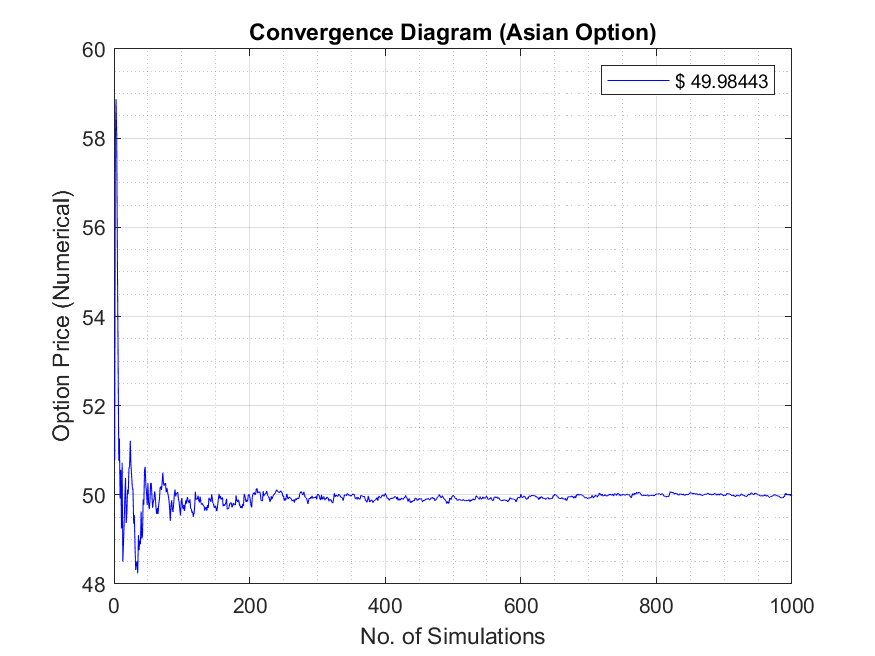
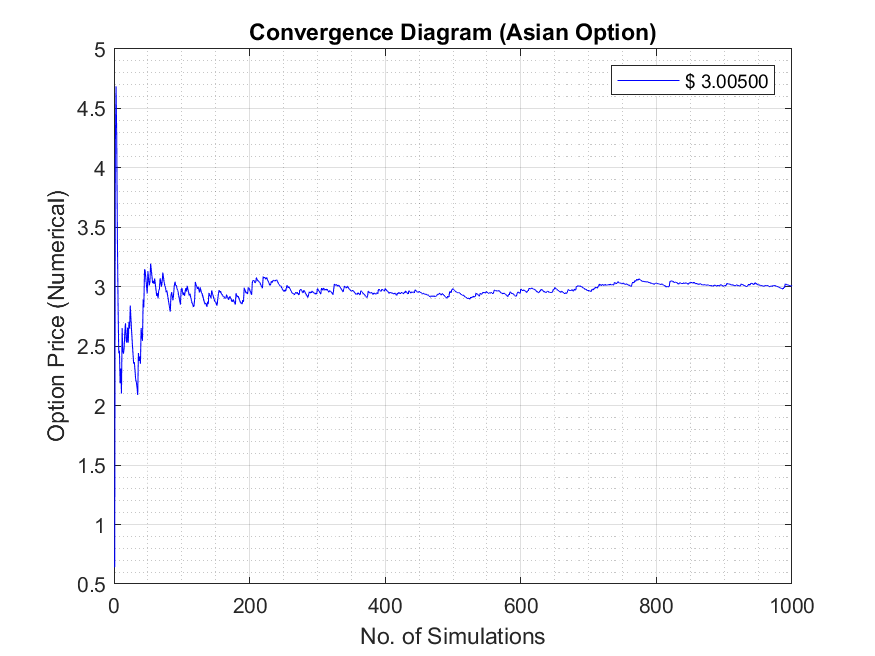
Update option parameters

diff --git a/Project 1/Asian Option/Asian_Monte_Carlo.m b/Project 1/Asian Option/Asian_Monte_Carlo.m
@@ -14,7 +14,7 @@ for i=1:N
     z_RandMat = norminv(RandMat,0,1);
     dt = T/NSteps;
     C = (r-0.5*sigma^2)*dt + sigma*sqrt(dt)*z_RandMat;
-    Paths = cumsum([log(S0)*ones(i,1),C],2);
+    Paths = cumsum([log(S)*ones(i,1),C],2);
     % Underlying asset price path
     SPaths = exp(Paths);
     Payoff = zeros(i,1);
@@ -41,7 +41,7 @@ for i=1:N
     z_RandMat = norminv(RandMat,0,1);
     dt = T/NSteps;
     C = (r-0.5*sigma^2)*dt + sigma*sqrt(dt)*z_RandMat;
-    Paths = cumsum([log(S0)*ones(i,1),C],2);
+    Paths = cumsum([log(S)*ones(i,1),C],2);
     % Underlying asset price path
     SPaths = exp(Paths);
     Payoff = zeros(i,1);
@@ -66,7 +66,7 @@ for i=1:N
     z_RandMat = norminv(rand(i,NSteps),0,1);
     dt = T/NSteps;
     C = (r-0.5*sigma^2)*dt + sigma*sqrt(dt)*z_RandMat;
-    Paths = cumsum([log(S0)*ones(i,1),C],2);
+    Paths = cumsum([log(S)*ones(i,1),C],2);
     % Underlying asset price path
     SPaths = exp(Paths);
     Payoff = zeros(i,1);
